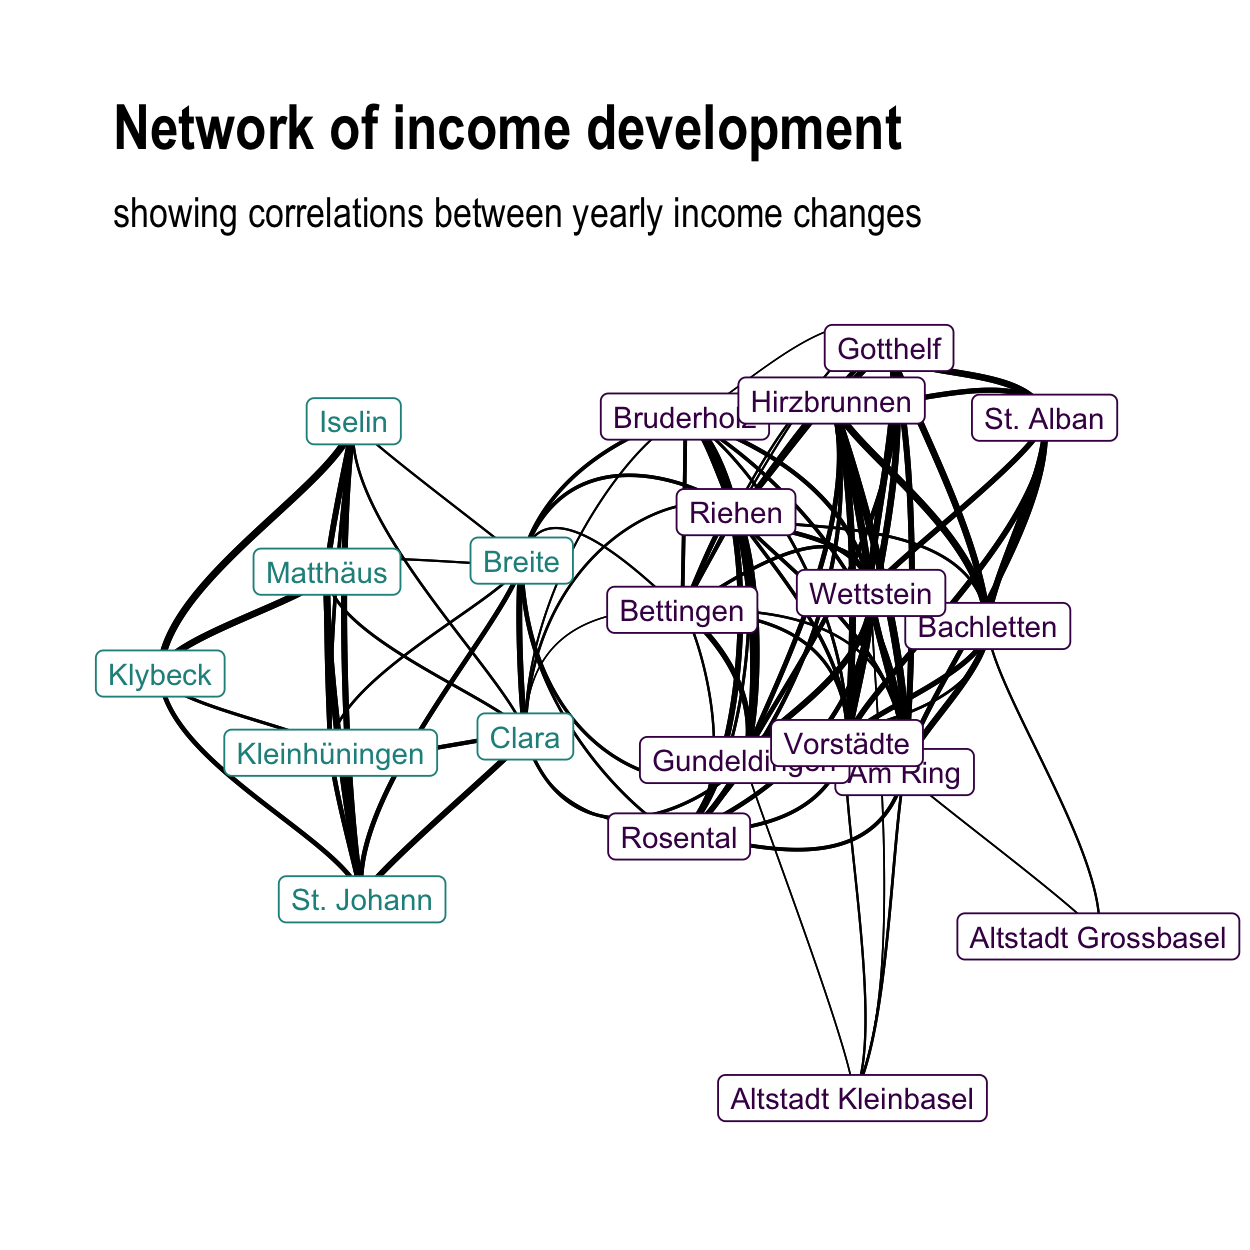
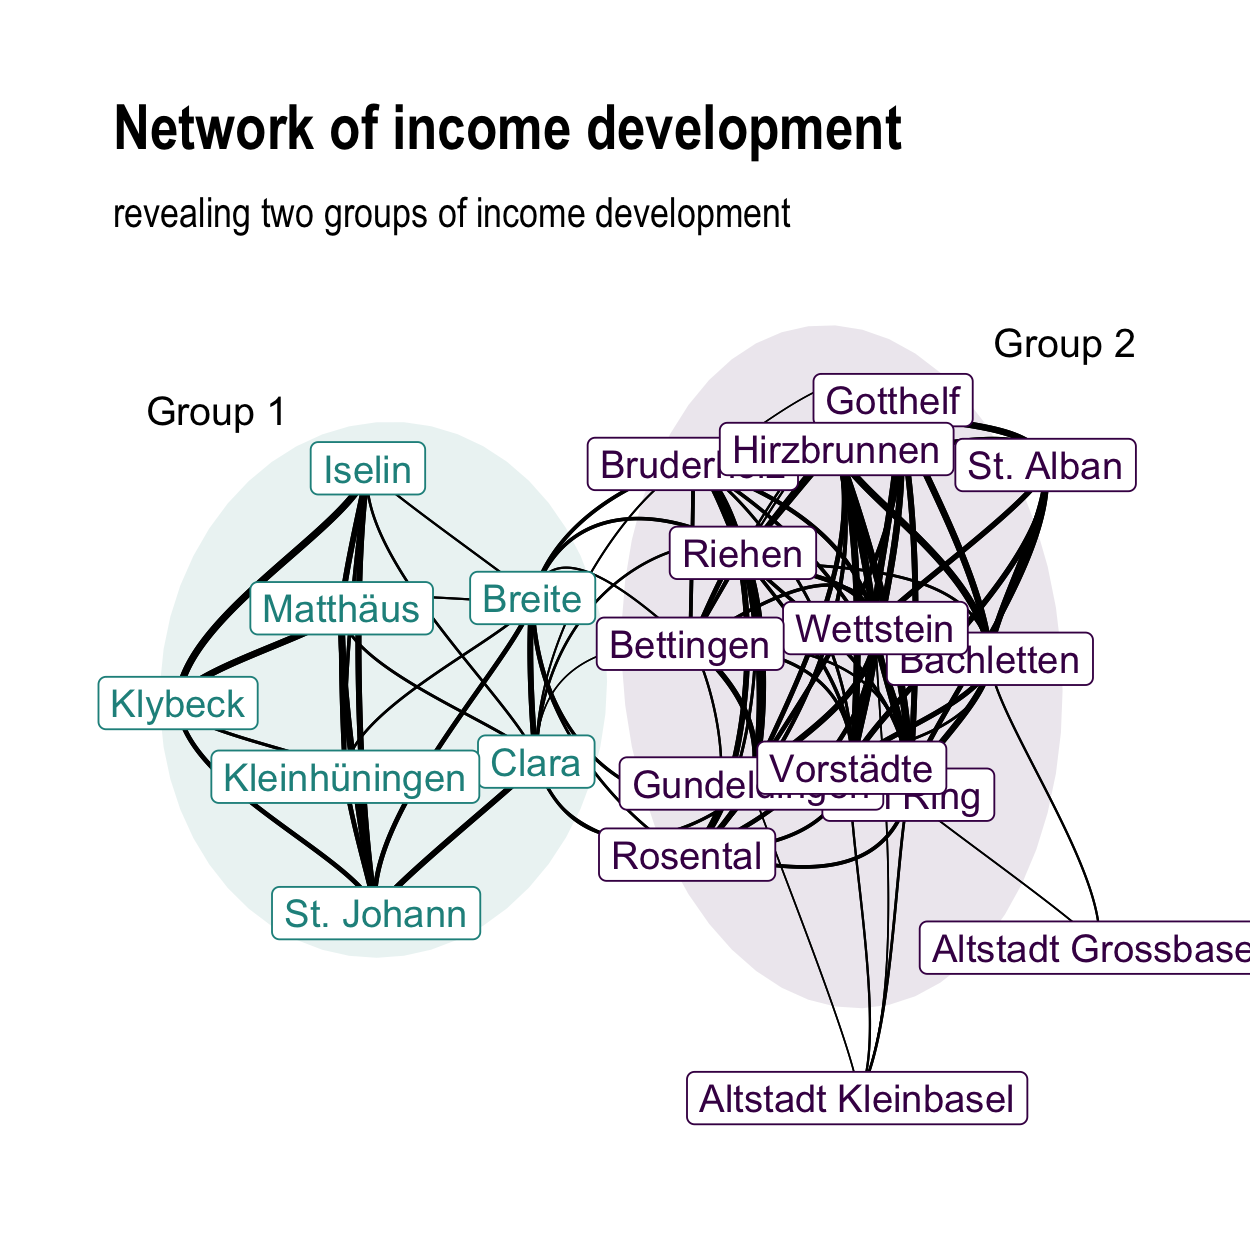
..

Changed region(s): [[0.0624, 0.2496, 1.0, 0.9048], [0.0936, 0.156, 0.7488, 0.1872]]

diff --git a/_sessions/maps&nets/maps-nets.html b/_sessions/maps&nets/maps-nets.html
@@ -707,7 +707,7 @@ network %&gt;%
 
 &lt;ul&gt;
   &lt;li class="m1"&gt;&lt;span&gt;&lt;mono&gt;theme_graph()&lt;/mono&gt; removes unnecessary background details.&lt;/span&gt;&lt;/li&gt;&lt;br&gt;
-  &lt;li class="m2"&gt;&lt;span&gt;&lt;mono&gt;scale_edge_width()&lt;/mono&gt; and similar functions can be used to adapt edges or nodes.&lt;/span&gt;&lt;/li&gt;&lt;br&gt;
+  &lt;li class="m2"&gt;&lt;span&gt;&lt;mono&gt;scale_edge_width()&lt;/mono&gt; and similar functions can be used to adapt edges or nodes.&lt;/span&gt;&lt;/li&gt;
 &lt;/ul&gt;
 
 
@@ -741,7 +741,7 @@ network %&gt;%
 .pull-left5[
 
 &lt;ul&gt;
-  &lt;li class="m1"&gt;&lt;span&gt;&lt;mono&gt;group_louvain()&lt;/mono&gt; and similar functions can be used to determine node groups (clusters).&lt;/span&gt;&lt;/li&gt;&lt;br&gt;
+  &lt;li class="m1"&gt;&lt;span&gt;&lt;mono&gt;group_louvain()&lt;/mono&gt; and similar functions can be used to determine node groups (clusters).&lt;/span&gt;&lt;/li&gt;
 &lt;/ul&gt;
 
 
@@ -770,6 +770,152 @@ network %&gt;%
 .pull-right45[
 
 &lt;img src="maps-nets_files/figure-html/unnamed-chunk-37-1.png" style="display: block; margin: auto;" /&gt;
+
+]
+
+---
+
+# Adding ellipses
+
+.pull-left5[
+
+&lt;ul&gt;
+  &lt;li class="m1"&gt;&lt;span&gt;&lt;mono&gt;stat_ellipse()&lt;/mono&gt; can be used to add ellipses covering points in the data (similar &lt;mono&gt;stat_*&lt;/mono&gt; functions exist for other visual elements.&lt;/span&gt;&lt;/li&gt;
+&lt;/ul&gt;
+
+
+```r
+# add clusters
+network %&gt;% 
+  mutate(community = 
+           group_louvain(weight) %&gt;% 
+           as.factor()) %&gt;%
+  
+  # network plot
+  ggraph() + 
+  
+  # ellipses
+  stat_ellipse(aes(x = x , y = y, 
+                   group = community, fill = community), 
+               level = .8, geom = "polygon", 
+               alpha = .1, show.legend = FALSE) + 
+  
+  # rest of plot
+  scale_fill_manual(values=viridis(3)[1:2]) +
+  ...
+```
+
+]
+
+.pull-right45[
+
+&lt;img src="maps-nets_files/figure-html/unnamed-chunk-39-1.png" style="display: block; margin: auto;" /&gt;
+
+]
+
+---
+
+# Adding ellipses
+
+.pull-left5[
+
+&lt;ul&gt;
+  &lt;li class="m1"&gt;&lt;span&gt;&lt;mono&gt;stat_ellipse()&lt;/mono&gt; can be used to add ellipses covering points in the data (similar &lt;mono&gt;stat_*&lt;/mono&gt; functions exist for other visual elements.&lt;/span&gt;&lt;/li&gt;
+&lt;/ul&gt;
+
+
+```r
+# add clusters
+network %&gt;% 
+  ...
+  
+  # network plot
+  ggraph() + 
+  
+  # ellipses
+  stat_ellipse(aes(x = x , y = y, 
+                   group = community, 
+                   fill = community), 
+               level = .8, geom = "polygon", 
+               alpha = .1, show.legend = FALSE) + 
+  
+  # rest of plot
+  scale_fill_manual(values=viridis(3)[1:2]) +
+  ...
+```
+
+]
+
+.pull-right45[
+
+&lt;img src="maps-nets_files/figure-html/unnamed-chunk-41-1.png" style="display: block; margin: auto;" /&gt;
+
+]
+---
+
+# Adding annotation
+
+.pull-left5[
+
+&lt;ul&gt;
+  &lt;li class="m1"&gt;&lt;span&gt;&lt;mono&gt;annotate()&lt;/mono&gt; can be used to &lt;high&gt;add any type of plot elements&lt;/high&gt; (layers) using vector specification.&lt;/span&gt;&lt;/li&gt;&lt;br&gt;
+&lt;/ul&gt;
+
+
+```r
+# add clusters
+network %&gt;% 
+  ...
+  
+  # network plot
+  ggraph() + 
+  ...
+  
+  # annotation
+  annotate("text", 
+           x = c(-2.5, 2), y = c(.8,1), 
+           label = c("Group 1","Group 2"), 
+           size=7)
+```
+
+]
+
+.pull-right45[
+
+&lt;img src="maps-nets_files/figure-html/unnamed-chunk-43-1.png" style="display: block; margin: auto;" /&gt;
+
+]
+
+---
+
+# Adding labels
+
+.pull-left5[
+
+&lt;ul&gt;
+  &lt;li class="m1"&gt;&lt;span&gt;Labels can be added as usual using &lt;mono&gt;labels()&lt;/mono&gt;.&lt;/span&gt;&lt;/li&gt;&lt;br&gt;
+&lt;/ul&gt;
+
+
+```r
+# add clusters
+network %&gt;% 
+  ... 
+  
+  # network plot
+  ggraph() + 
+  ...
+  
+  # labels
+  labs(title = "Network...",
+       subtitle = "reveals...")
+```
+
+]
+
+.pull-right45[
+
+&lt;img src="maps-nets_files/figure-html/unnamed-chunk-45-1.png" style="display: block; margin: auto;" /&gt;
 
 ]
 
